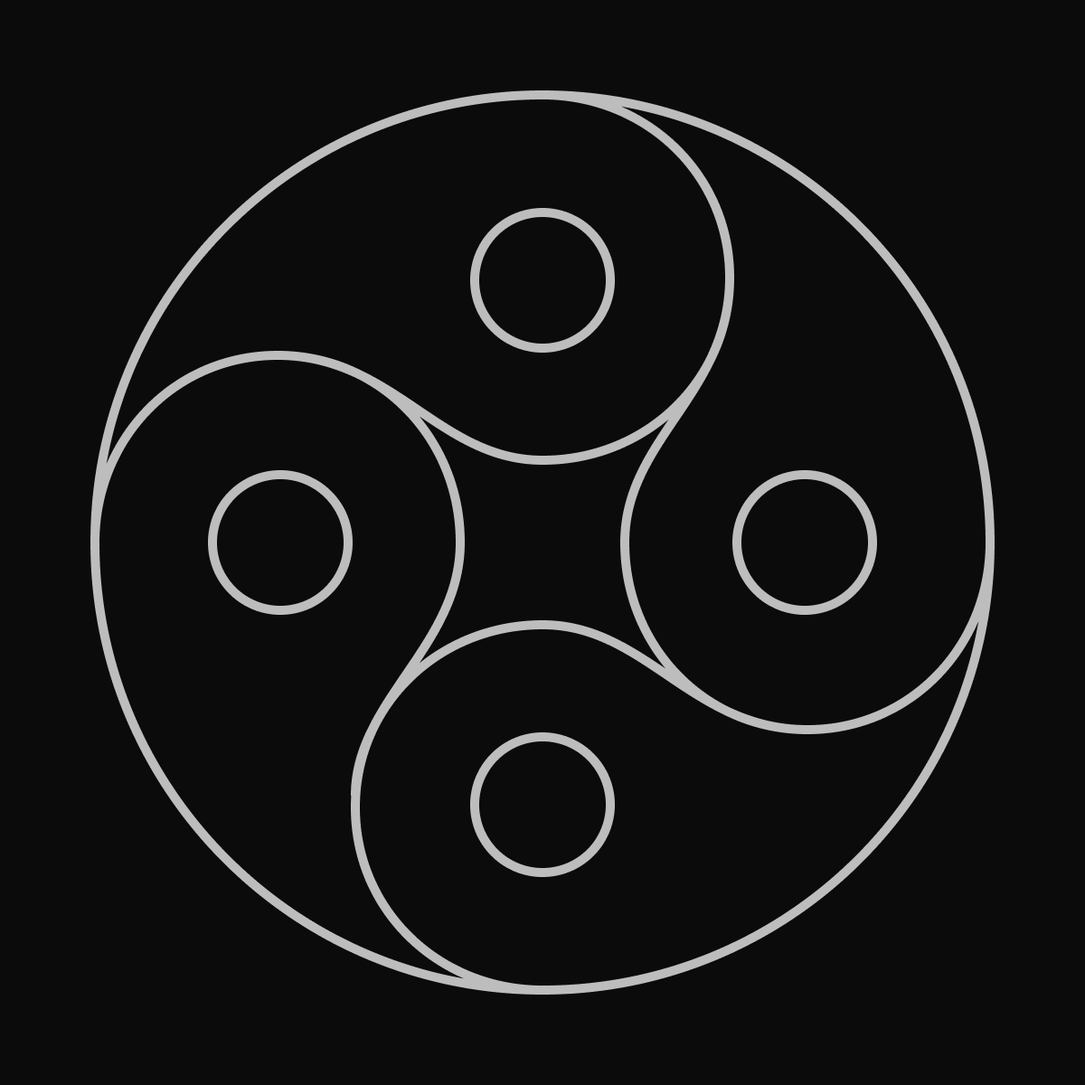
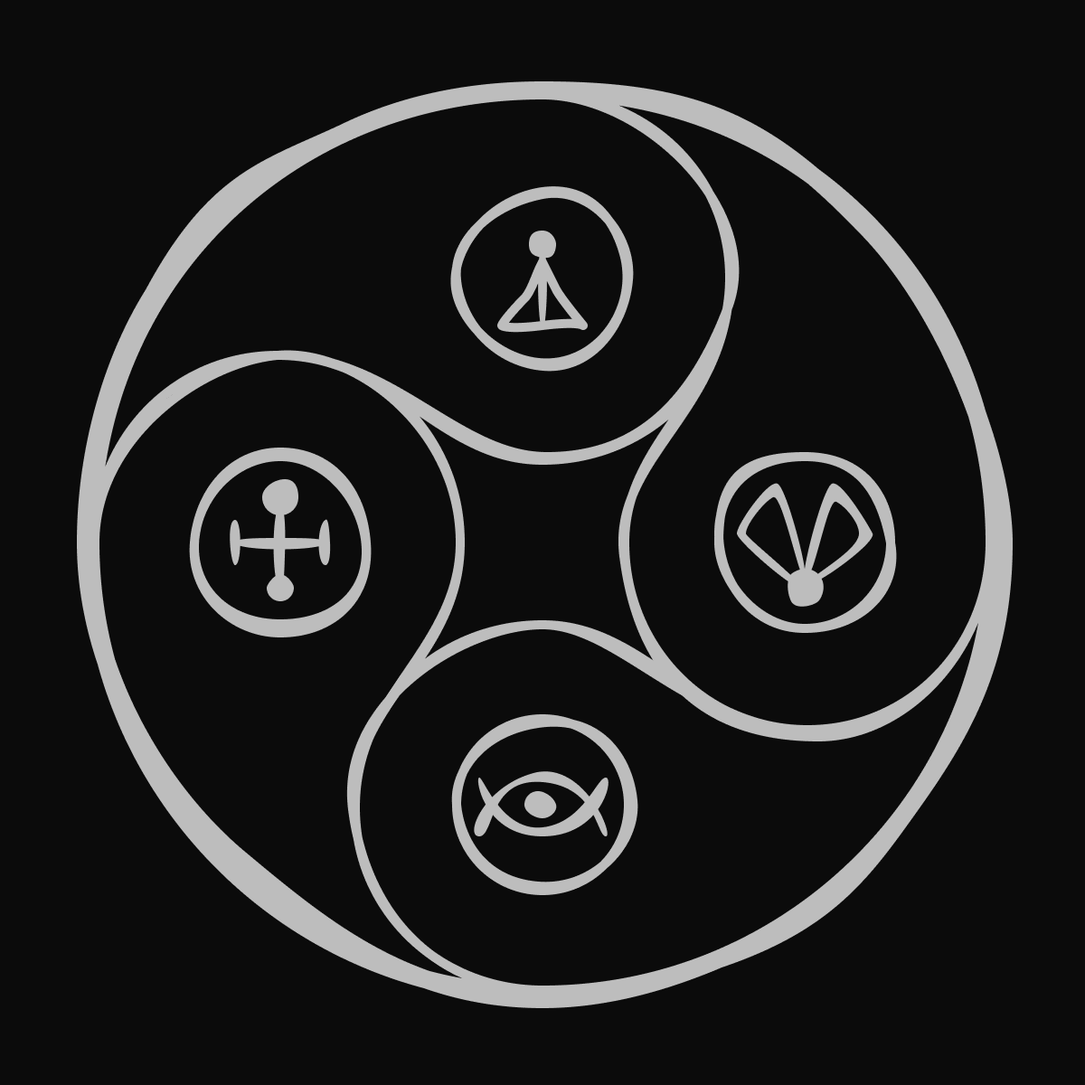
Правка оформления гармонии

diff --git a/content/harmony.md b/content/harmony.md
@@ -1,6 +1,100 @@
 Гармония — это отсутствие противоречий. Когда мы сталкиваемся с противоречием, нам трудно испытать счастье. Например, девушка хочет похудеть, но при этом хочет вкусно покушать, рождается конфликт желаний, разрушающий гармонию и, вследствие, возможность быть счастливым. В данной статье описаны основные механизмы по работе с внутренними конфликтами. Однако, не стоит забывать о том, что причиной разлада может быть психологическая травма или иная патология, в такой ситуации лучше всего обратиться к психотерапевту.
 
-* <a class="cross" data="meditation" href="?c=meditation">Медитация</a> — даёт гармонию в теле.
-* <a class="cross" data="composure" href="?c=composure">Самообладание</a> — даёт гармонию в чувствах.
-* <a class="cross" data="know" href="?c=know">Рефлексия</a> — даёт гармонию в мыслях.
-* <a class="cross" data="genuine" href="?c=genuine">Подлинное</a> — даёт гармонию духа.
+Для того чтобы достичь гармонии необходимо:
+
+* Медитация — даёт гармонию в теле.
+* Самообладание — даёт гармонию в чувствах.
+* Рефлексия — даёт гармонию в мыслях.
+* Подлинное — даёт гармонию духа.
+
+# Медитация
+
+Влияние физического состояние на душевное было замечено ещё в древней Индии, и благодаря Буддизму перекочевало в Китай. Данную практику назвали медитацией. Позднее, данная взаимосвязь была подтверждена и учёными. Опыты показывают, что улыбаясь специально более минуты наше настроение начинает следовать за телом. И, следовательно, мы можем это использовать.
+
+Комбинируя данные 4 приёма, достигается медитативное состояние, в котором отлично отдыхает наша психика. Достигнув в них успеха, в него можно погружаться не только будучи наедине, но и находясь в стрессовой ситуации.
+
+## Расслабиться
+Физическое напряжение возникает при отсутствии возможности выплеска мышечной энергии. Например, на вас накричал начальник, ребёнок в такой ситуации мог бы покричать, потопать ногами или даже попытаться ударить обидчика, но взрослые люди обременены нормами поведения в обществе и не могут себе позволить такой роскоши. Стиснув зубы и кулаки, мы молча выслушиваем обидчика и пойдём дальше работать. Естественно, напряжение никуда не исчезнет, возникает конфликт между нашим желанием выплеснуть энергию и не упасть в глазах окружающих. Что делать в такой ситуации? Учиться расслабляться.
+
+Есть несколько способов:
+
+1. Учиться контролировать своё тело. Как это делать? Для того чтобы что-то расслабить, сначала нужно это напрячь. В нашем теле огромное количество мышц, и не все из них поддаются сознательному контролю. Чтобы это исправить, прислушайтесь максимально к физическим ощущениям, дабы ничего не пропустить, начните от головы до ног внимательно переносить внимание на каждый участок тела. Найдя напряжение, напрягите это место ещё сильнее, а за тем расслабьте и так несколько раз пока не почувствуете расслабление.
+1. Физические упражнения отлично снимают напряжение с мышц, даже если нет возможности заниматься в зале, пол и гантели вряд ли кто-то сможет у вас отнять.
+1. Йога отлично подойдёт для тех, кто не хочет стать накаченным и стремится к стройной фигуре или для тех кому противопоказаны тяжёлые физические упражнения. Под йогой подразумевается, исключительно, физическая практика, а не духовная или психическая.
+
+## Здесь и сейчас
+Если вы постоянно думаете о своих проблемах или вспоминаете прошлое, то такое состояние не принесёт счастье, а только будет угнетать. Счастливый человек живёт настоящим. Чтобы вырваться из оков внутреннего диалога нужно научиться контролировать фокус нашего внимания. Сделать это можно с помощью простого упражнения.
+
+Сфокусируйтесь на своём теле на несколько секунд, затем вокруг себя, затем в даль, затем снова уйдите в свои фантазии (желательно приятные). После чего, переносите фокус в случайном порядке на одну из зон тело, окружение, даль, фантазии. После чего пробуйте длительно фокусироваться на одном из состояний, умение контролировать свой фокус позволит вам внимать происходящие таким какое оно есть, без сравнений и анализа.
+
+## Дыхание
+От сбившегося дыхания настроение меняется ни чуть не меньше, чем от физического напряжения. Организм может начать ощущать опасность, из-за чего появляется страх и тревога. Для того чтобы отладить дыхание существует упражнение «дыхание квадратом». Состоит оно из 4 фаз: 3 секунды вдох, 3 секунды пауза, 3 секунды выдох, 3 пауза. И так по кругу. Вдохи и выдохи должны быть размеренными и глубокими. После 10 циклов упражнения можно перейти на то дыхание, которое более всего комфортно.
+
+## Быть большим
+Когда нам что-то угрожает, может возникнуть желание сжаться в маленький комок, это естественная физическая реакция для защиты жизненно важных органов от врагов. Вот только из-за стресса возникает аналогичная реакция, и хотя никаких врагов нет, мы сжимаемся и начинаем ощущать чувство тревоги. Поэтому, для того чтобы почувствовать себя лучше, нужно выпрямиться, расправить плечи и постараться ощутить себя большим, посмотреть вдаль, а не себе под ноги, открыться миру и ощущениям.
+
+# Самообладание
+
+«Самообладание» интересное слово, в нём вложен смысл владеть собой, и при этом оно используется как характеристика того, подвластны ли нам наши эмоции. Эмоции и наше отношение являются главной движущей силой нашего поведения, если бы их не было, то не было бы и смысла что либо делать. Если бы мы не стремились избегать плохое и получать хорошее, то мы бы ничего не делали. А зачем? Зачем есть, если нет желания поесть? Из-за страха смерти? Так ведь страх это тоже эмоция, и если бы его не было, то результат несколько предсказуем. Объять всю тему управления эмоциями здесь невозможно, однако, можно выделить наиболее значимые и полезные механизмы, которые описаны ниже.
+
+## Пауза
+Сильные эмоциональные реакции, порой, влекут за собой всё новые и новые эмоции и приводят к нежелательным последствиям, а всё потому, что человек в такой момент себя не контролирует. Даже есть выражение «эмоции взяли верх». Особенно тяжело бывает, когда нас кто-то провоцирует. Представьте себе ситуацию, вы стоите в очереди в столовой, и тут неожиданно кто-то влезает впереди вас, вы начинаете грозно возмущаться на него и в итоге, вас уже трясёт от возмущения, обидчик пропускает вас вперёд, но накопленный выброс адреналина уже не остановить, вы садитесь за стол есть, а вас продолжает трясти, назовёте ли вы удачной такую трапезу? Может быть, стоило вообще не ввязываться в конфликт и отделаться малой кровью? Естественно, здесь нет призыва всем и везде уступать. Для того чтобы не попадать впросак в таких ситуациях, необходимо выработать у себя привычку брать паузу. Когда вы берёте паузу, у вас есть время оценить ситуацию и свои следующие действия, возможно, они будут тоже эмоциональные, но не с бухты барахты, а более продуманно.
+
+## Страх страха
+Когда у нас возникают тревога, наиболее частая ошибочная реакция является стремление подавить страх, что разумеется невозможно. Накопленная психическая энергия рвётся наружу, а вы ещё тратите огромные волевые ресурсы, чтобы его сдерживать. Заранее прошу прощения за столь нелицеприятный пример, однако, он очень хорошо отражает поведение человека, который боится. Представьте себе такую ситуацию: у вас диарея, и вы считаете, что вы слишком благочестивы, чтобы поддаться желанию пойти в туалет и извергнуть из себя нечистоты, вы ведь эталон идеала и чистоты, как такое может из вас выйти. И вы сдерживаетесь до последнего в надежде, что «само рассосётся». Но каким богам не молись, результат предсказуем. Ровно тоже самое происходит с человеческой тревогой. Если вас что-то беспокоит или вам страшно, позвольте себе бояться. Тогда у тревоги будет выход, и она закончится сама собой.
+
+## Изменить отношение
+Возможно, вы слышали, что «все проблемы у нас в голове». Это действительно так. Наше отношение к вещам создают нам проблемы, если наше отношение лёгкое, то и ситуации для нас лёгкие, если отношение тяжёлое, то и ситуации тяжёлые. Чтобы избавиться от негативного отношения, есть простая психологическая техника, работающая в разных вариациях. Для этого необходимо представить негативные чувства в виде какого-то объекта, возможно даже живого, и избавиться от него, прогнать, убить в своих мыслях, выкинуть, совершить что-то по избавлению от него. Если у вас, действительно, есть желание сменить отношение, то у вас всё получится.
+
+## Сдаться чтобы победить
+Бывают в нашей жизни тяжёлые ситуации, когда проблемы на столько серьёзны, что выпивают из нас все соки, и просто так изменить отношение не получиться. Для того чтобы придти к балансу в чувствах, нужно сдаться. Если вещь действительно значимая, как, например, семья или здоровье, сдаться не получится, но попытавшись, вы сможете снизить значимость события, чтобы найти силы действовать дальше, потому что если что-то для нас слишком важно это парализует нас, наши мысли и действия уже не могут быть адекватными. Поэтому, в таких ситуациях, чтобы не потерять себя нужно сдаться и найти точку опоры вновь.
+
+# Рефлексия
+
+Рефлексия — это познание самого себя, своих чувств и мыслей. Качественным результатом рефлексии является осознание. Осознание — это пересечение нашей логики и эмоций, когда логика верно описывает наши эмоции, то это является осознанностью. Ниже описаны способы по достижению этого состояния.
+
+## Запись на бумаге
+Наше сознание не в силах удерживать большое количество объектов, а для рефлексии нам нужно посмотреть на наши мысли и чувства со стороны. Как же это сделать? Очень просто, изложить свои мысли на бумаге. Так вы избежите зацикливания и блуждание в собственном разуме. Лучше всего использовать именно рукописные средства, потому что при этом активно задействуется мелкая моторика рук, что имеет важное значение для активности мозга. Регулярное выписывание своих мыслей приводит к упорядочиванию мыслей, что и приводит нас к гармонии.
+
+## Планирование
+Ощущение того, что мы не контролируем ситуацию, приводит к тревоге. Даже боль воспринимается легче, если мы можем, например, сжимать палку во рту, это даёт ощущение хоть какого-то контроля. Проблемой человека является склонность к негативному прогнозированию. И это понятно, эволюция выработала в нас склонность, что лучше испугаться, чем не придать значения. Например, сидя в лесу и услышав шорох в кустах, наш мозг предположит, в первую очередь, что это какой-то хищник, и это было действительно выгодно, ведь если это не ветер, а тигр или змея, нас бы ждала смерть. Однако, в современном мире, где нас, почти, не окружают опасности, эта негативная оценка очень сильно искажает наши представления о реальности.
+
+Чтобы снова почувствовать контроль планируйте, пишите задачи, неважно где, главное, чтобы они были легко осуществимыми, конкретными и имели временные рамки. Сложные задачи можно разбить на более простые, для работы с ними. Данная практика вернёт вам уверенность в себе и чувство контроля над ситуацией и собственной жизнью.
+
+Важным элементом планирования являются ожидания; никогда не делайте завышенных ожиданий. Если вы возлагаете большие надежды на свои действия, в случае неудачи это будет наносить вам удар и вызывать страдания, в то время, если вы ожидали малого, а получилось много, вы будете испытывать эйфорию. Поэтому, ожидайте меньшее, стремитесь к большему.
+
+## Завершайте ситуации
+Если ситуация или дело не закончены, это будет висеть в нашей психике, и чем больше таких вещей в психике, тем хуже для неё. Какое чувство вы испытываете при просмотре фильма, концовка которого оставляет неясность? Подавленности или желания узнать, что же будет дальше. Однако, фильм это лишь пример, а реальная жизненная ситуация может даже травмировать нас. Поэтому, если начали какое-то дело, обязательно завершите его, хотя бы до какой-то логической точки. Если это невозможно по каким-то причинам, существует техника по завершению ситуации. Её механизм следующий, вы должны максимально подробно представить незавершённую ситуацию и погрузиться в неё, после чего, в мыслях завершить её наиболее удачным, на ваш взгляд, образом. Это позволит отпустить эту ситуацию и не возвращаться к ней более.
+
+## Ответственность
+Чувство контроля, как уже писалось выше, очень важное. Однако, порой люди сами его отдают добровольно. Представьте себе ситуацию: вы ищете работу, и вам отказывает работодатель, вы говорите, что это он не смог оценить ваших качеств. Затем вам отказывают на втором собеседовании, не третьем и т.д. Может дело не в работодателях, а в том, что вы не соответствуете их требованиям? Разумеется, не всё в нашей жизни зависит от нас, вряд ли вы сможете предсказать падение метеорита на вас. Однако, когда мы отказываемся от ответственности за вещи, на которые мы можем влиять, мы выкидываем белый флаг без боя, и это часто перерастает у людей в привычку. Такая капитуляция порождает чувство, что вы жертва обстоятельств, что уж точно не сделает вас счастливым.
+
+Неверное определение ответственности возникает по двум причинам: внутренняя — это отсутствие честности с собой, и внешняя это недостаток знаний. Первая лечится следующим образом, необходимо ответить на вопрос «зачем я так поступаю?». Дело в том, что любое наше поведение, даже деструктивное, на первый взгляд, по каким-то причинам нам выгодно, задавая вопрос «зачем?», очень важно не путать с «почему?», мы направляем мысли в нужное русло и можем найти ответ, если, конечно, действительно хотим этого.
+
+Со внешней причиной, проблема решается изучением данного вопроса, собрав больше информации. Против людей в этом вопросе действует ужасное когнитивное искажение «ложной уникальности», из-за которого люди думают, что их опыт и действия являются какими-то особенными. В действительности в подавляющем большинстве случаев, с подобными проблемами люди сталкивались раньше и находили успешные решения. Изобретая велосипед, вы теряете один из самых ценных ресурсов, время.
+
+# Подлинное
+
+Чтобы понять, что такое подлинное, сначала нужно определить к чему стремиться человек. Природа поступила очень хитро и установила наши стремления таким образом, чтобы мы могли приспосабливаться к обстоятельствам очень гибко. Что они из себя представляют, это стремления к общению, уважению, развитию и информации. Общение даёт нам возможность образовывать группы, что делает нас сильнее, уважение позволяет самореализоваться и стать профессионалом в чём-либо, на счёт пользы развития и информации должно быть понятно без комментариев. Возможно, у некоторых из вас уже сложилась претензия, что некоторые из нашего общества никак не развиваются и вообще заняты ерундой. Но на самом деле всё не так просто, они заняты не просто ерундой, увы, эти люди стали заложниками суррогатов. Подлинное удовольствие — это то удовольствие, которое делает вас и людей вокруг вас сильнее, это то, что приносит вам реальную пользу, помогая выживать в этом мире. Суррогат же, тоже приносит аналогичное удовольствие, однако, польза от него, в лучшем случае, минимальна, а на деле чаще больше вреда.
+
+Существует много людей, жалующихся на отсутствие мотивации, при этом, они тратят кучу энергии на то, чтобы играть в компьютерные игры, смотреть фильмы, часами сидеть в социальных сетях можно ли сказать, что они ничего не хотят? Конечно же нет, но суррогат, как правило, тем и притягателен, что его получить на много легче, чем подлинное удовольствие. Находясь заложниками суррогатов, люди как самые настоящие наркоманы не могут получить духовное удовлетворение от жизни, ведь, отрекаясь от подлинного, они встают на путь саморазрушения.
+
+## Суррогаты общения — соц.сети и плохая компания
+Казалось бы, социальные сети выполняют важную роль, облегчая общение между людьми на большом расстоянии. Но увы соц.сети не могут покрыть полностью потребности связанные с коммуникацией. Аллогруминг - это проявление тактильной активности (поглаживания, покусывания, чистка шерсти и т.д.) среди животных, используемого как самый распространённый способ проявления дружелюбного поведения. Именно он заставляет вас гладить кошек, обнимать других людей или даже мягкие игрушки. Данный вид поведения значительно снижает уровень стресса и вызывает выброс эндорфинов. Значимость тактильного контакта колоссальна, дети, не получившие достаточно физической ласки, вырастают с психическими отклонениями.
+
+Плохая компания, в данном случае, это не просто люди, которые занимаются тёмными делами, это люди, которые тянут вас на дно. Влияние людей друг на друга очень сильное, если вы будете общаться с бандитами, то станете бандитом, если будете общаться с бизнесменами, то станете бизнесменом. Человек социальное животное и подстраивается под ту группу, в которой находится. Эта особенность досталась нам от наших предков, потому что раньше изгнание из стаи было равносильно смерти. Как определить, что вы не в той компании? Если вы не являетесь лидером компании, и при этом ваши качества являются лучшими, то вы не в той компании. Потому что окружение должно делать вас лучше, или вы должны делать лучшего его. В случае, если вы обладаете важными и полезными качествами, но при этом не лидер, а ровняются именно на лидера, группа будет угнетать ваши сильные стороны до тех пор, пока они не сойдут на нет.
+
+## Суррогаты уважения — унижения и позёрство
+У человека, как и большинства развитых животных, есть потребность в доминировании. Однако, в современном обществе это даётся не очень просто, даже начальник над подчинёнными имеет весьма неустойчивую власть, так как те могут просто сменить работу. Из-за этого люди прибегают к такой вещи как самоутверждение за счёт других, например, в споре отстаивают свою позицию не потому что они в ней уверены, а потому что хотят доказать свою правоту и тем самым отдоминировать оппонента. Если бы они хотели действительно найти истину, то они бы внимательнее слушали бы собеседника, пытаясь лучше понять, на чём строится его позиция, а не ждали своей очереди сказать. Бывает, что это сводится к тому, что человек просто унижает другого без действительно значимых на то причин.
+
+Позёрство — это попытка выдать желаемое за действительное. Люди в своём стремлении показать какие они успешные молодцы, приобретают статусные маркеры в виде дорогих смартфонов, брендовой одежды, автомобилей и прочих атрибутов. И обман других людей в этом деле не самое страшное. Tратя огромные ресурсы на то, чтобы почувствовать себя лучше других, человек жертвует свои ресурсы в пустую вместо того, чтобы заниматься их приумножением и становиться действительно богатым, знаменитым или просто значимым для других людей. Стоит отметить, что позёрство может приобретать не только материальные блага, оно может приобретать разные формы: попытки блеснуть своими знаниями, проявления жестов добродушия, ложь о положении своих дел. В общем, любые попытки казаться, а не быть.
+
+В итоге, реализуя такие модели, поведения человек не только не может получить подлинное удовольствие от ощущения собственной важности, но и портит отношения с окружающими. Подлинное уважение можно заслужить только своим трудом, приносящим пользу не только вам, но и окружающим.
+
+## Суррогаты развития — кинематограф и игры
+Благодаря врождённому умению сопереживать, мы способны чувствовать не только других людей, но а также персонажей фильмов, мультфильмов или даже игровых. Поэтому, злоупотребление просмотром фильмов или траты большого количества времени на игры ведёт человека к демотивации. Человеку, которому не хватает любви смотрит мелодрамы, которому не хватает разнообразия в жизни — приключения и т.д. Это приводит человека к временному облегчению его «голода», но не решает реальной проблемы, из-за которой эта потребность возникла. К этой же проблеме относится такая вещь как злоупотребление порнографией, мало того, что человек теряет мотивацию найти настоящего партнёра, так это ещё и вызывает эректильную дисфункцию, из-за того, что реальный партнёр уже не в состоянии возбудить.
+
+Возможно, у кого-то закралось сомнение, что это относится к развитию. Относится и при том непосредственно. Персонаж, практически любого фильма, всегда сталкивается с какой-то проблемой и к концу преодолевает её, тем самым став лучше. С играми тоже самое, персонаж от уровня к уровню приобретает какой-то прогресс, заложенный в механику игры, и у человека возникает чувство, что это он чего-то добился. Разумеется, некоторые произведения и игры, в том числе, несут в себе важное культурное наследие, однако, это приносит пользу, пока не превращается в зависимость, бесконечный просмотр сериалов и траты своей жизни в пустую.
+
+## Суррогат познания — информационный мусор
+Стремление к получению информации как и остальные зародились очень давно. Так как знание где находится источник воды, ягоды, тропы животных играли огромную роль в нашем выживании. Поэтому, данное стремление осталось в нас и по сей день. Отличить информационный мусор от полезной информации, наверное, можно из самого их названия. Но давайте приведём примеры. К информационному мусору можно причислить бесконечный скролинг новостных лент в соц. сетях, просмотр онлайн видео или просто блуждание по интернету. Возможно, любители читать новости возразят, ссылаясь на то, что там бывает важные события, но они забывают, что СМИ давно стали элементом маркетинга и там, как правило, находится провокационная информация, притягивающая внимание, как, например, о преступления, конфликтах или жизни супер-звёзд. Разумеется, такая информация никакой пользы для вас не несёт, если вы знаете действительно качественные источники новостей — пожалуйста, но если это не так, чтение профессиональной литературы или расширяющей ваш кругозор будет куда более полезным занятием.
